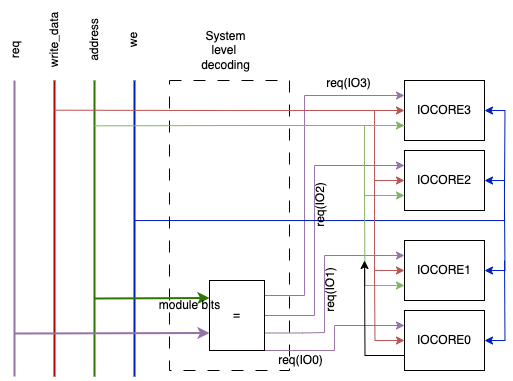
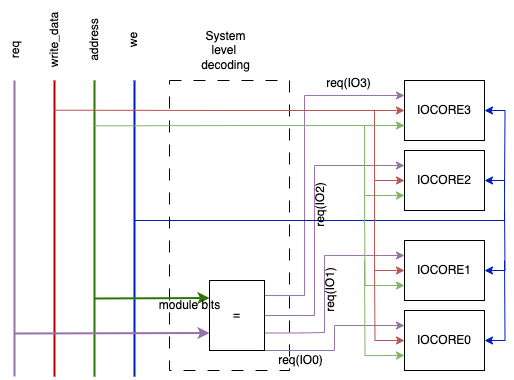
finished developing FPROv3

diff --git a/23-DevelopomingOBI.md b/23-DevelopomingOBI.md
@@ -441,5 +441,297 @@ always_ff @(posedge CLK)
   - Logic that implements the timer functionality
   - Logic to generate the OBI slave error signal
 
+#### OBI slave finite state machine 
 
-- TBD 
+- The state machine has the following states:
+  - ADDR: entering the address phase of the transaction 
+  - RESP: entering the response phase of the transaction 
+
+```verilog  
+   // slave FSM states
+    typedef enum logic {
+        ADDR,
+        RESP
+    } state_t;
+    state_t state, next_state;
+
+    always_ff @(posedge obi_clk_i) begin
+        if (!obi_rstn_i) begin
+            state <= ADDR;
+        end else begin
+            state <= next_state;
+        end
+    end
+```
+
+- Transition between states:
+  - In the ADDR state, we wait for the handshake signals to be asserted on address channel (`obi_gnt_i` and `obi_rvalid_i`) to move to the RESP state
+  - In the RESP state, we wait for the master to be ready to accept the response (`obi_rready_i`), then we move back to the ADDR state
+
+- Generating signals:
+  - the FSM generates the latch signal for the address and data from the master when the handshake signals are asserted in the ADDR state. 
+    - this means that the valid address and data from the master are latched into the slave when the slave has accepted the request and the read data is valid
+
+```verilog  
+always_comb begin : OBI_SLAVE_next_state
+        next_state = state;
+        latch_addr = 1'b0; // default value for latch_addr
+        case (state)
+            ADDR: begin
+                if (obi_gnt_o & obi_req_i) begin
+                    next_state = RESP;
+                    latch_addr = 1'b1; // latch address at the end of address phase
+                end
+            end
+            RESP: begin
+                if (obi_rvalid_o & obi_rready_i) begin
+                    next_state = ADDR;
+                end
+            end
+        endcase
+    end
+```
+
+
+<img src="./img/23/fsm_slave.png" alt="LUT Implementation" style="width:400px;"/>
+
+#### Generating valid and ready signals for the OBI slave
+
+- For the timer peripheral, we assume that the timer can always accept the request from the master and the operation can always be completed in one cycle, meaning that there is no wait state for the timer peripheral. 
+
+
+```verilog  
+ assign obi_gnt_o = 1'b1 & !(state == RESP); // when you are in the response phase, you should not accept new requests, so gnt is low. In other states, gnt is high when there is a request
+    assign obi_rvalid_o = 1'b1 & (state == RESP); // rvalid is high when you are in the response phase 
+```
+
+#### Decoding logic for write operation
+
+- The decoding logic is used to select the appropriate register based on the address from the master
+- Before we can decode the address, we need to latch the address from the master when the handshake signals are asserted in the ADDR state of the FSM
+  - this ensures that we have a stable address to decode and select the appropriate register
+- Using the latched address, we can decode the address to select the appropriate register for the write operation
+
+<img src="./img/23/slave_write.png" alt="LUT Implementation" style="width:400px;"/>
+
+- generation of enable signal is done according to following table:
+
+|state (FSM slave)| we_o | ADDRESS (register bits) | e(3:0)|
+|--|-------|-----------------------|---------|
+|ADDR|X|Dont care |0|
+|RESP|0|Dont care |0|
+|RESP|1|0x00 (Register 0)|1|
+|RESP|1|0x04 (Register 1)|2|
+|RESP|1|0x08 (Register 2)|4|  
+|RESP|1|0x0C (Register 2)|8|  
+
+- For timer example, we have only one writeable register (configuration register), so we only need to decode the address for that register and generate the enable signal for that register. 
+
+```verilog  
+// OBI Write interface 
+    // Latching address and write data at the end of address phase to use in response phase
+
+    logic [OBI_ADDR_WIDTH-1:0] latched_addr;
+    logic [OBI_DATA_WIDTH-1:0] latched_wdata;
+    logic latched_we;
+
+    always_ff @(posedge obi_clk_i) begin
+        if (!obi_rstn_i) begin
+            latched_addr <= 0;
+            latched_wdata <= 0;
+            latched_we <= 0;
+        end else begin
+            if (latch_addr) begin
+                latched_addr <= obi_addr_i;
+                latched_wdata <= obi_wdata_i;
+                latched_we <= obi_we_i;
+            end 
+        end
+    end 
+
+
+
+    logic [31:0] timer_config;
+    logic wr_en;
+    assign wr_en = state == RESP & latched_we & (latched_addr[6:0] == `TIMER_CONF_OFF); // Needs to ensure write request is valid and handshake occured in address phase
+
+  
+    // reg data 0x0
+    always_ff @(posedge obi_clk_i) begin
+        if (!obi_rstn_i) begin
+            timer_config <= 0;
+        end else begin
+            if (wr_en) begin
+                timer_config <= latched_wdata;
+            end
+        end
+    end
+
+```
+
+#### Multiplexing logic for read operation
+
+- The multiplexing logic is used to select the appropriate data to be sent back to the master based on the address from the master
+- Similar to the write operation, we need to latch the address from the master when the handshake signals are asserted in the ADDR state of the FSM to have a stable address for decoding and selecting the appropriate data to be sent back to the master
+- Using the latched address, we can decode the address to select the appropriate data from the registers to be sent back to the master for the read operation
+
+<img src="./img/23/slave_read.png" alt="LUT Implementation" style="width:400px;"/>
+
+
+- generation of read data is done according to following table:
+
+|state (FSM slave)| we_o | ADDRESS (register bits) | rdata|
+|--|-------|-----------------------|---------|
+|ADDR|X|Dont care |0|
+|RESP|1|Dont care |0|
+|RESP|0|0x00 (Register 0)| From register 0|
+|RESP|0|0x04 (Register 1)| From register 1|
+|RESP|0|0x08 (Register 2)| From register 2|
+|RESP|0|0x0C (Register 2)| From register 2|  
+
+- For timer example, we have two readable registers (count low and count high), so we need to decode the address for those registers and select the appropriate data from those registers to be sent back to the master. 
+
+```verilog
+    // OBI read interface
+    logic rd_en[1:0];
+    assign rd_en[0] = state == RESP & !latched_we & (latched_addr[6:0] == `TIMER_COUNTL_OFF); // read from the TIMER_COUNTL register when there is a valid read request and the address is correct
+    assign rd_en[1] = state == RESP & !latched_we & (latched_addr[6:0] == `TIMER_COUNTH_OFF); // read from the TIMER_COUNTH register when there is a valid read request and the address is correct  
+    
+    // forwarding response data
+    logic [OBI_DATA_WIDTH-1:0] latched_rdata;
+    always_comb begin
+        if(rd_en[0]) begin
+            obi_rdata_o = timer_count[31:0];
+        end else if (rd_en[1]) begin
+            obi_rdata_o = timer_count[63:32];
+        end else begin
+            obi_rdata_o = 32'b0; // for invalid read requests, return 0
+        end
+    end
+```
+
+#### Custom logic for the timer peripheral
+
+- The custom logic for the timer peripheral includes:
+  - A 64-bit timer count register that increments on each clock cycle when the timer is enabled
+  - Logic to reset the timer count when the reset bit in the configuration register is set
+  - Logic to enable or disable the timer based on the enable bit in the configuration register
+  
+```verilog  
+    // Timer logic
+    logic [63:0] timer_count;
+    logic timer_start, timer_reset;
+
+    assign timer_start = timer_config[0];
+    assign timer_reset = timer_config[1]; 
+
+    always_ff @(posedge obi_clk_i) begin
+        if (!obi_rstn_i) begin
+            timer_count <= 0;
+        end else begin
+            if(timer_start) begin
+                if(timer_reset) begin
+                    timer_count <= 0;
+                end else begin
+                    timer_count <= timer_count + 1;
+                end
+            end
+        end
+    end
+  
+```
+
+ #### Registering the core into SoC platform
+
+- After developing the OBI slave, we need to register it into the SoC platform
+  - Instantiate the OBI slave module in the top-level SoC module
+  - Connect the OBI slave signals to the interconnect signals
+  - Write SW drivers to access the peripheral
+
+- In top module of the SoC platform:
+
+```verilog
+  // 0xC000_0000 + 0x80
+  obi_timer #(
+      .OBI_ADDR_WIDTH(AW),
+      .OBI_DATA_WIDTH(DW)
+  ) u_obi_timer (
+      .obi_clk_i     (clock),
+      .obi_rstn_i    (resetn),
+      .obi_req_i     (slave_obi_req[1]),
+      .obi_gnt_o     (slave_obi_gnt[1]),
+      .obi_addr_i    (slave_obi_addr[1]),
+      .obi_we_i      (slave_obi_we[1]),
+      .obi_wdata_i  (slave_obi_wdata[1]),
+      .obi_be_i      (slave_obi_be[1]),
+      .obi_rready_i (1'b1), // always ready to accept data
+      .obi_rvalid_o (slave_obi_rvalid[1]),
+      .obi_rdata_o  (slave_obi_rdata[1]),
+      .obi_err_o     (slave_obi_err[1])
+  );
+```
+- Here we instantiate the OBI timer peripheral and connect its signals to the interconnect signals
+  - We assume that the timer peripheral is connected to slot 1 in the interconnect
+  - The interconnect signals are arrays, where each index corresponds to a specific peripheral slot
+  - This index determines the base address of the peripheral in the memory map
+  - For slot 1, the base address is 0xC000_0080
+    -  Base address of the OBI subsystem: 0xC000_0000
+    -  Offset for slot 1: 0x0000_0080
+> How did we get the offset for slot 1?
+> - Each slot has 32 registers (5 bits for register address)
+> - Each register is 4 bytes (2 bits for byte address)
+> - Therefore, each slot occupies 32 * 4 = 128 bytes (0x80 in hex)
+> - When we get the address of slot 1, the logic in in the interconnect will: 
+>   - generate  obi_req[1] signal when the address is in the range of 0xC000_0080 to 0xC000_007F
+
+- Finally, we need to write SW drivers to access the timer peripheral
+  - The drivers will use the MMIO scheme to read and write the registers of the timer peripheral
+```c
+    #include <stdio.h>
+#include <stdint.h>
+
+#define GPIO 0xC0000000
+#define TIMER 0xC0000080
+#define TIMER_CNTL 0xC0000084
+#define TIMER_CNTH 0xC0000088
+
+
+int main()
+{
+
+  volatile uint32_t * led_device = (uint32_t *) (GPIO+4);
+  volatile uint32_t * timer_config = (uint32_t *) TIMER ;
+  volatile uint32_t * timer_count_low = (uint32_t *)(TIMER + 4); // second mistake: need to put parentheses around the addition
+  volatile uint32_t * timer_count_high = (uint32_t *)(TIMER + 8);
+
+  volatile uint64_t counter_new, counter_old, limit;
+
+
+  volatile uint32_t led_value = 0x0000F0F0;
+  *led_device = led_value;
+
+    //reset counter
+  *timer_config = 0x00000003;
+  //start counter
+  *timer_config = 0x00000001;
+  // read counter
+  limit = 100000000;
+
+	while(1){
+
+		led_value =  ~led_value;
+	    *led_device = led_value;
+
+    	counter_new = *timer_count_high;
+    	counter_new = *timer_count_low + (counter_new << 32);
+    	counter_old = counter_new;
+
+
+    	while((counter_old + limit) > counter_new) {
+    		counter_new = *timer_count_high;
+    	    counter_new = *timer_count_low + (counter_new << 32);
+    	}
+    }
+    return 0;
+}
+```

diff --git a/19-DevelopomingAPB.md b/19-DevelopomingAPB.md
@@ -632,7 +632,7 @@ assign mcs_bridge_enable = (io_address[31:24] == BRG_BASE[31:24]);
 - Finally, we need to write SW drivers to access the timer peripheral
   - The drivers will use the MMIO scheme to read and write the registers of the timer peripheral
 ```c
-    #include <stdio.h>
+#include <stdio.h>
 #include <stdint.h>
 
 #define GPIO 0xC0000000
